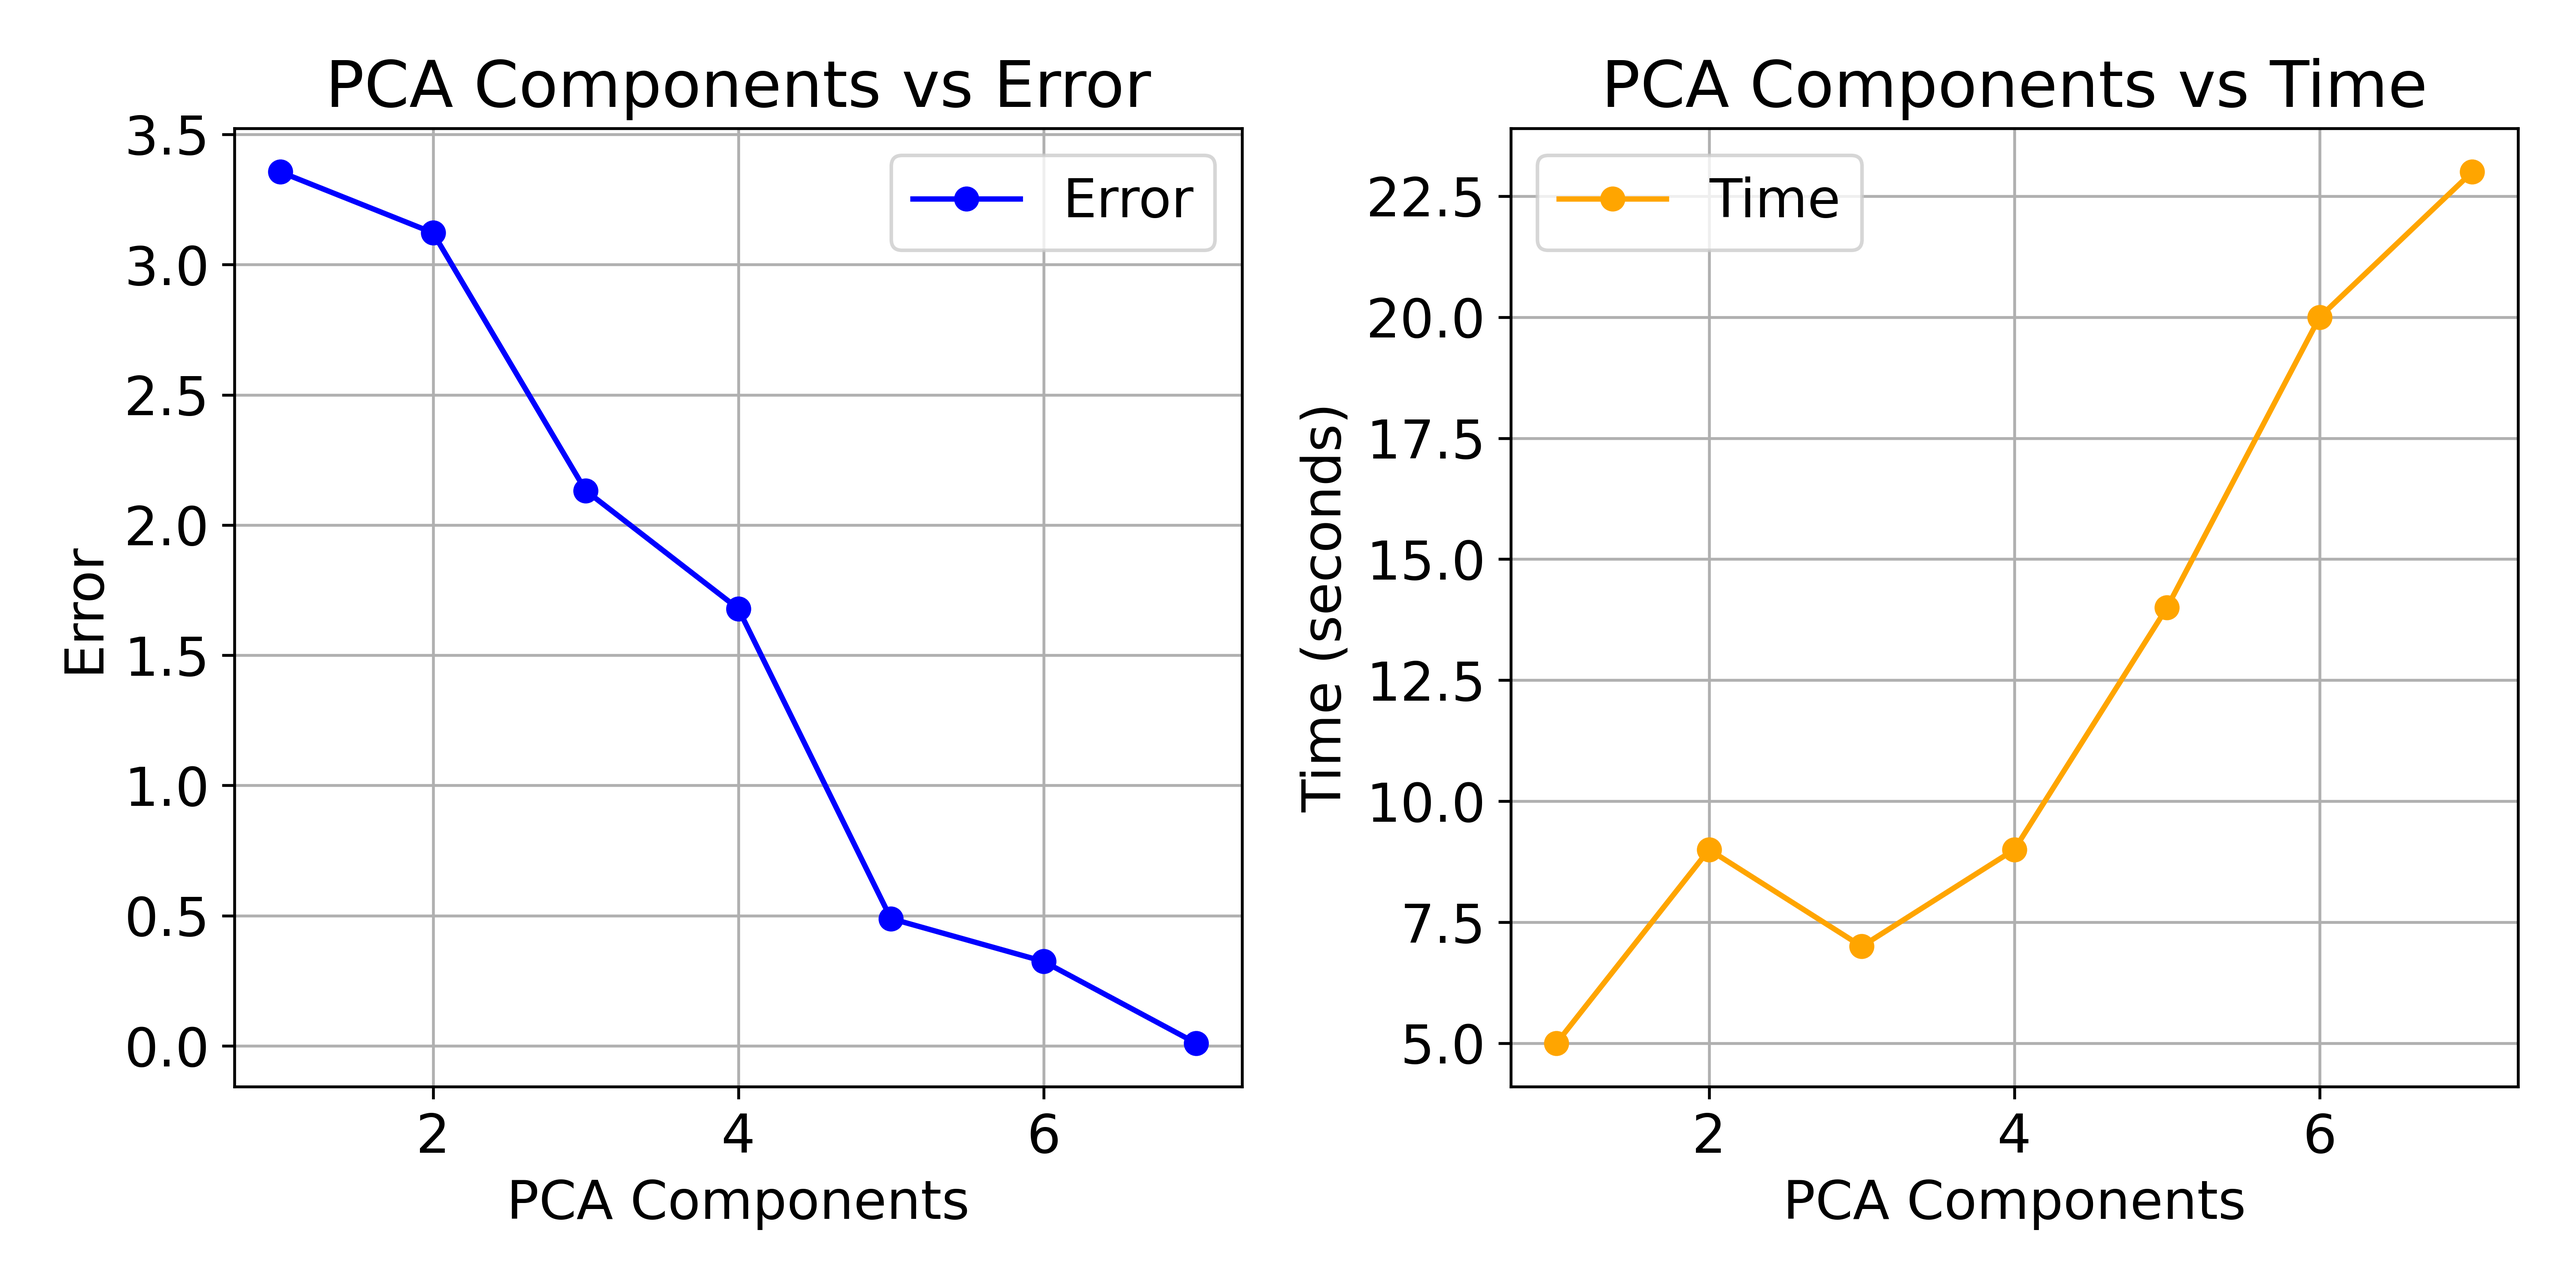
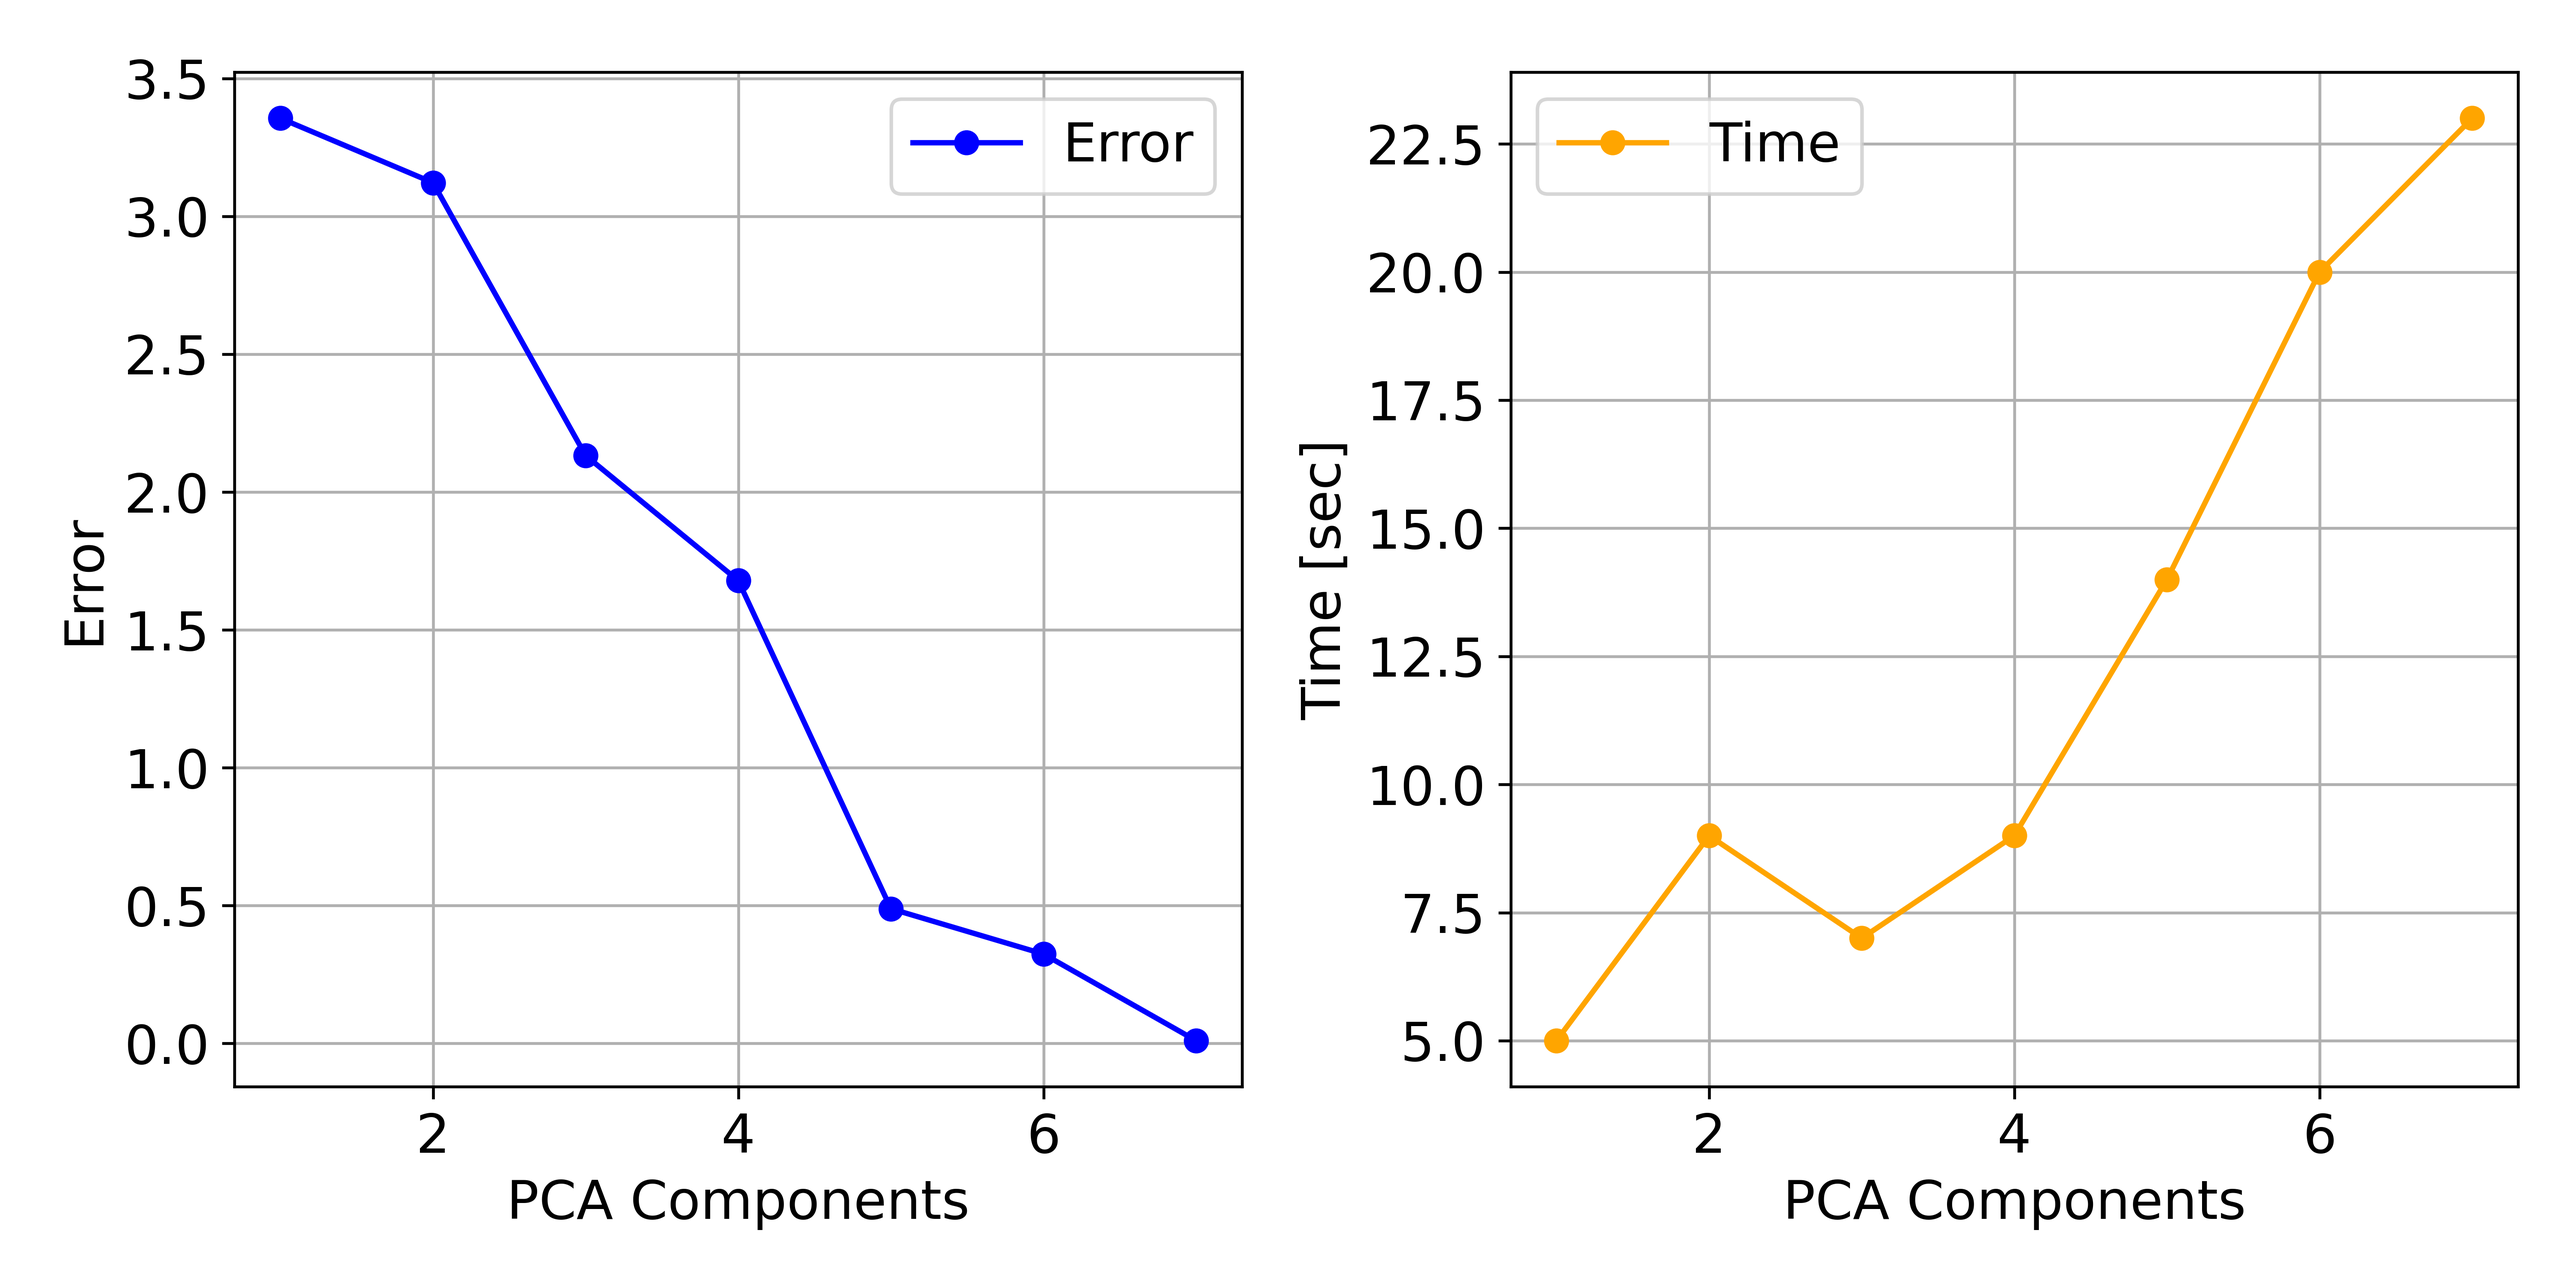
pca time errror modified

diff --git a/utils/PCA_graph_generator.py b/utils/PCA_graph_generator.py
@@ -9,7 +9,7 @@ plt.rcParams.update({'font.size': 15})
 plt.figure(figsize=(10, 5), dpi=600)
 plt.subplot(1, 2, 1)
 plt.plot(PCA, Error, marker='o', label="Error", color="blue")
-plt.title("PCA Components vs Error")
+# plt.title("PCA Components vs Error")
 plt.xlabel("PCA Components")
 plt.ylabel("Error")
 plt.grid(True)
@@ -17,9 +17,9 @@ plt.legend()
 
 plt.subplot(1, 2, 2)
 plt.plot(PCA, Time, marker='o', label="Time", color="orange")
-plt.title("PCA Components vs Time")
+# plt.title("PCA Components vs Time")
 plt.xlabel("PCA Components")
-plt.ylabel("Time (seconds)")
+plt.ylabel("Time [sec]")
 plt.grid(True)
 plt.legend()
 plt.tight_layout()
